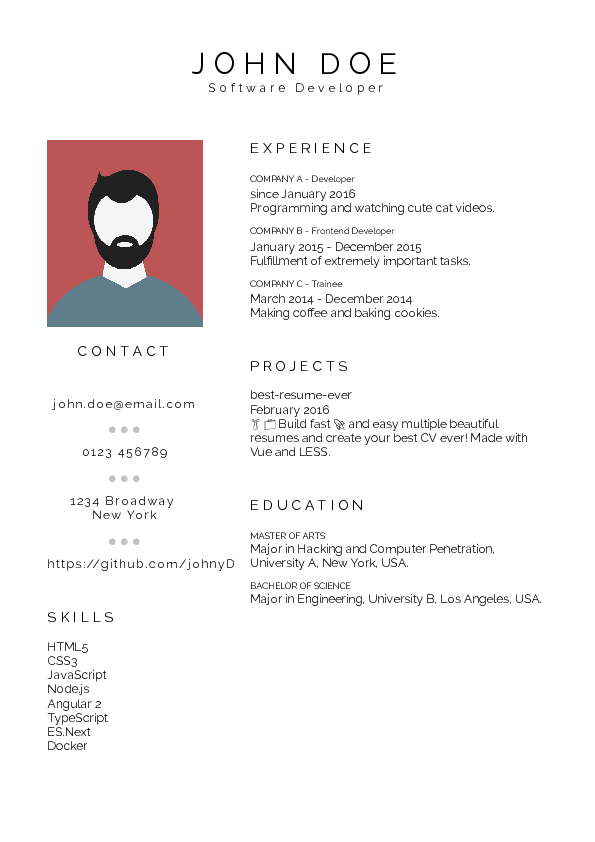
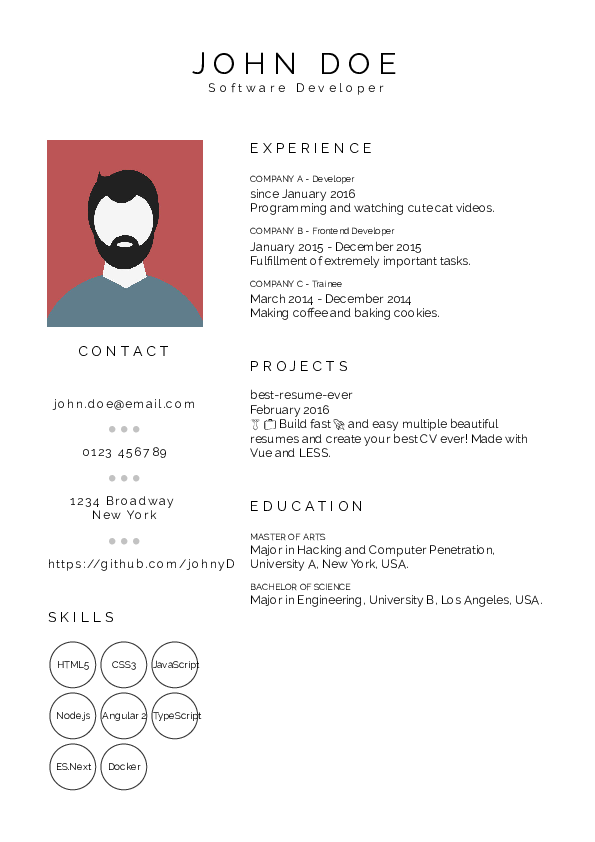
fixed skills appearance i.e css

diff --git a/src/resumes/side-bar-projects.vue b/src/resumes/side-bar-projects.vue
@@ -11,7 +11,7 @@
               </div>
           </div>
           <div class="contact">
-              <h3>{{ lang.contact }}</h3>
+              <h3>Contact</h3>
               <div class="contact-row">
                   <a :href="'mailto:'+person.contact.email">{{person.contact.email}}</a>
               </div>
@@ -41,7 +41,7 @@
               </div>
           </div>
           <div class="skills-block">
-              <h3> {{ lang.skills }}</h3>
+              <h3>Skills</h3>
               <div class="skills">
                       <div class="skill" v-for="skill in person.skills">
                           <span class="skill-name">{{skill.name}}</span>
@@ -52,7 +52,7 @@
       </div>
       <div class="right-col">
           <div class="experience">
-              <h3>{{ lang.experience }}</h3>
+              <h3>Experience</h3>
                   <div class="experience-block" v-for="experience in person.experience">
                       <div class="row">
                           <span class="company"> {{experience.company}} -</span>
@@ -67,7 +67,7 @@
                   </div>
           </div>
           <div class="projects">
-              <h3>{{ lang.projects }}</h3>
+              <h3>Projects</h3>
                   <div class="project-block" v-for="project in person.projects">
                       <div class="row">
                           <span class="name"> {{project.name}} </span>
@@ -80,7 +80,7 @@
                   </div>
           </div>
           <div class="education">
-              <h3>{{ lang.education }}</h3>
+              <h3>Education</h3>
                   <div class="education-block" v-for="education in person.education">
                       <div class="row">
                           <span class="degree">{{education.degree}}</span>
@@ -182,6 +182,40 @@ export default Vue.component(name, getVueOptions(name));
       font-size:10px;
       color:rgba(153,153,153,0.6);
     }
+    .skills-block {
+      margin-top:50px;
+      position:relative;
+      .skills {
+        margin-bottom:10px;
+        margin-bottom:20px;
+        position:relative;
+        margin-left:auto;
+        margin-right:auto;
+        display:inline-block;
+        .skill {
+          width:60px;
+          height:60px;
+          border-radius:50%;
+          position:relative;
+          border:#333333 1px solid;
+          margin:3px;
+          float:left;
+          font-size:13px;
+          .skill-name {
+            text-align:center;
+            position:absolute;
+            top:50%;
+            transform:translateY(-50%);
+            width:100%;
+          }
+        }
+        .skills-other {
+          display:inline-block;
+          width:100%;
+          margin-top:20px;
+        }
+      }
+    }
   }
   .right-col {
     width:50%;
@@ -220,43 +254,6 @@ export default Vue.component(name, getVueOptions(name));
           font-size:12px;
           text-transform:uppercase;
           margin-bottom:3px;
-        }
-      }
-    }
-    .skills-block {
-      text-align:center;
-      margin-top:50px;
-      position:relative;
-      .skills {
-        text-align:center;
-        margin-bottom:10px;
-        margin-bottom:20px;
-        position:relative;
-        margin-left:auto;
-        margin-right:auto;
-        display:inline-block;
-        .skill {
-          text-align:center;
-          width:80px;
-          height:80px;
-          border-radius:50%;
-          position:relative;
-          border:#333333 1px solid;
-          margin:3px;
-          float:left;
-          font-size:13px;
-          .skill-name {
-            text-align:center;
-            position:absolute;
-            top:50%;
-            transform:translateY(-50%);
-            width:100%;
-          }
-        }
-        .skills-other {
-          display:inline-block;
-          width:100%;
-          margin-top:20px;
         }
       }
     }
